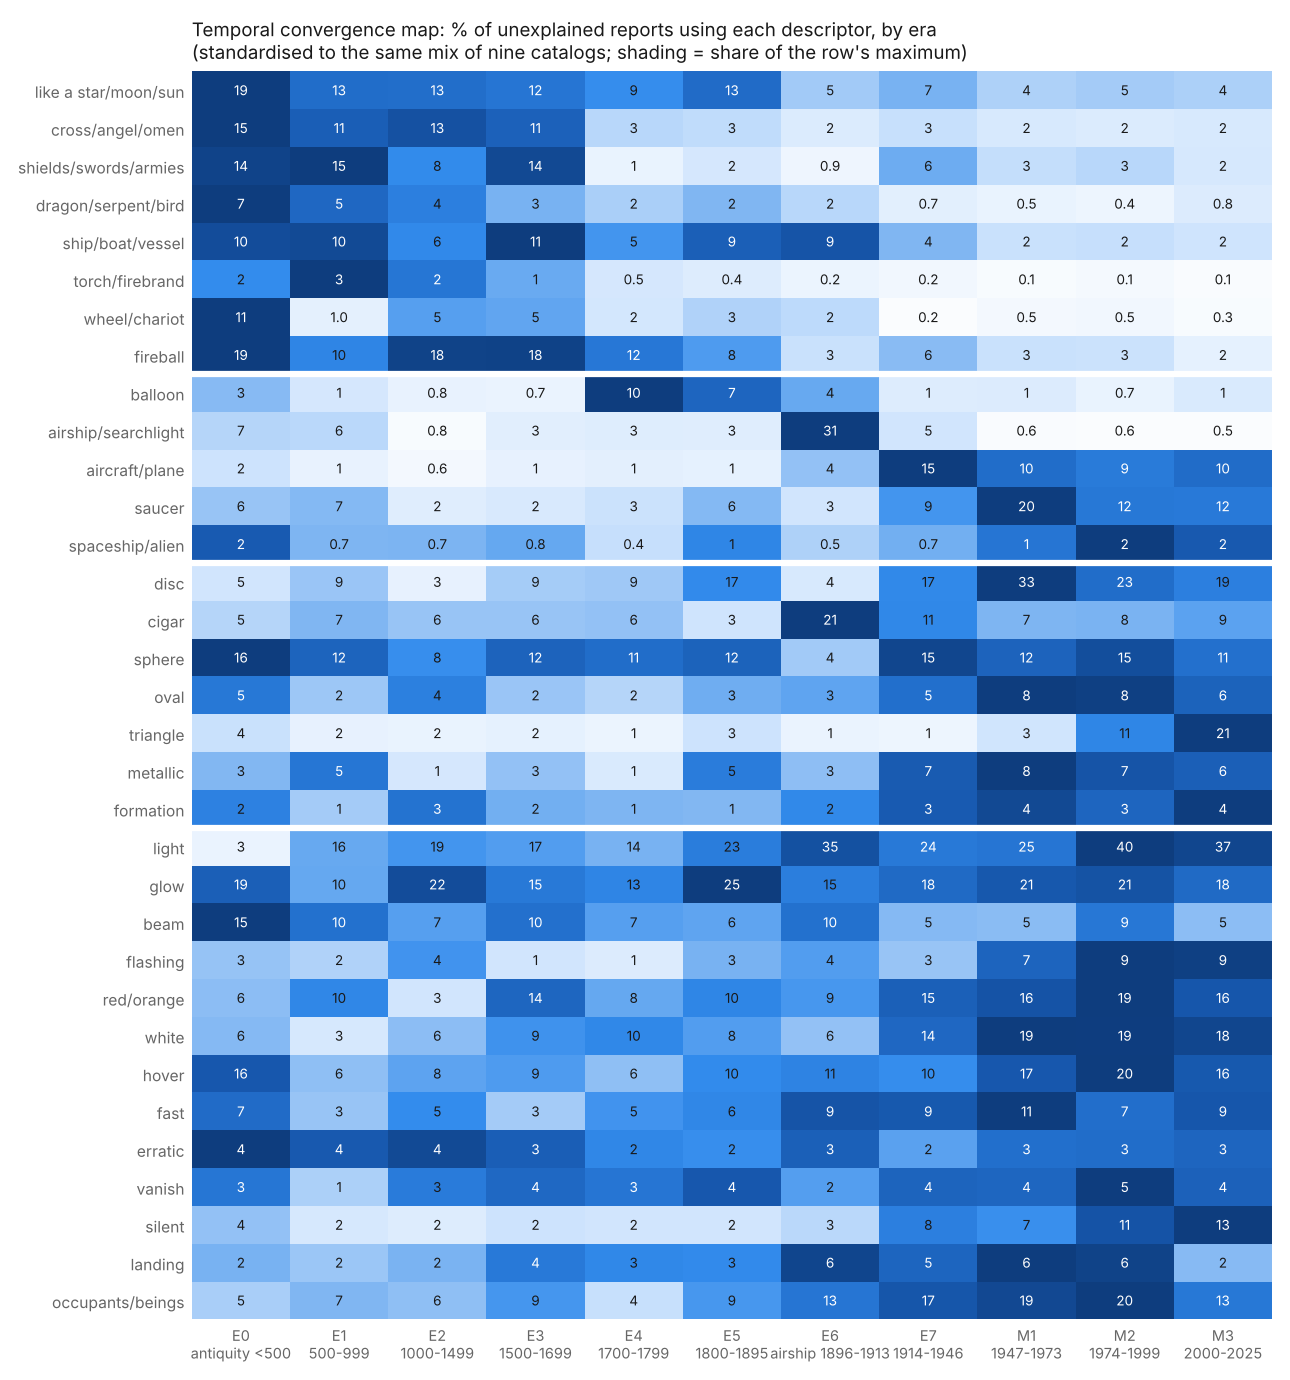
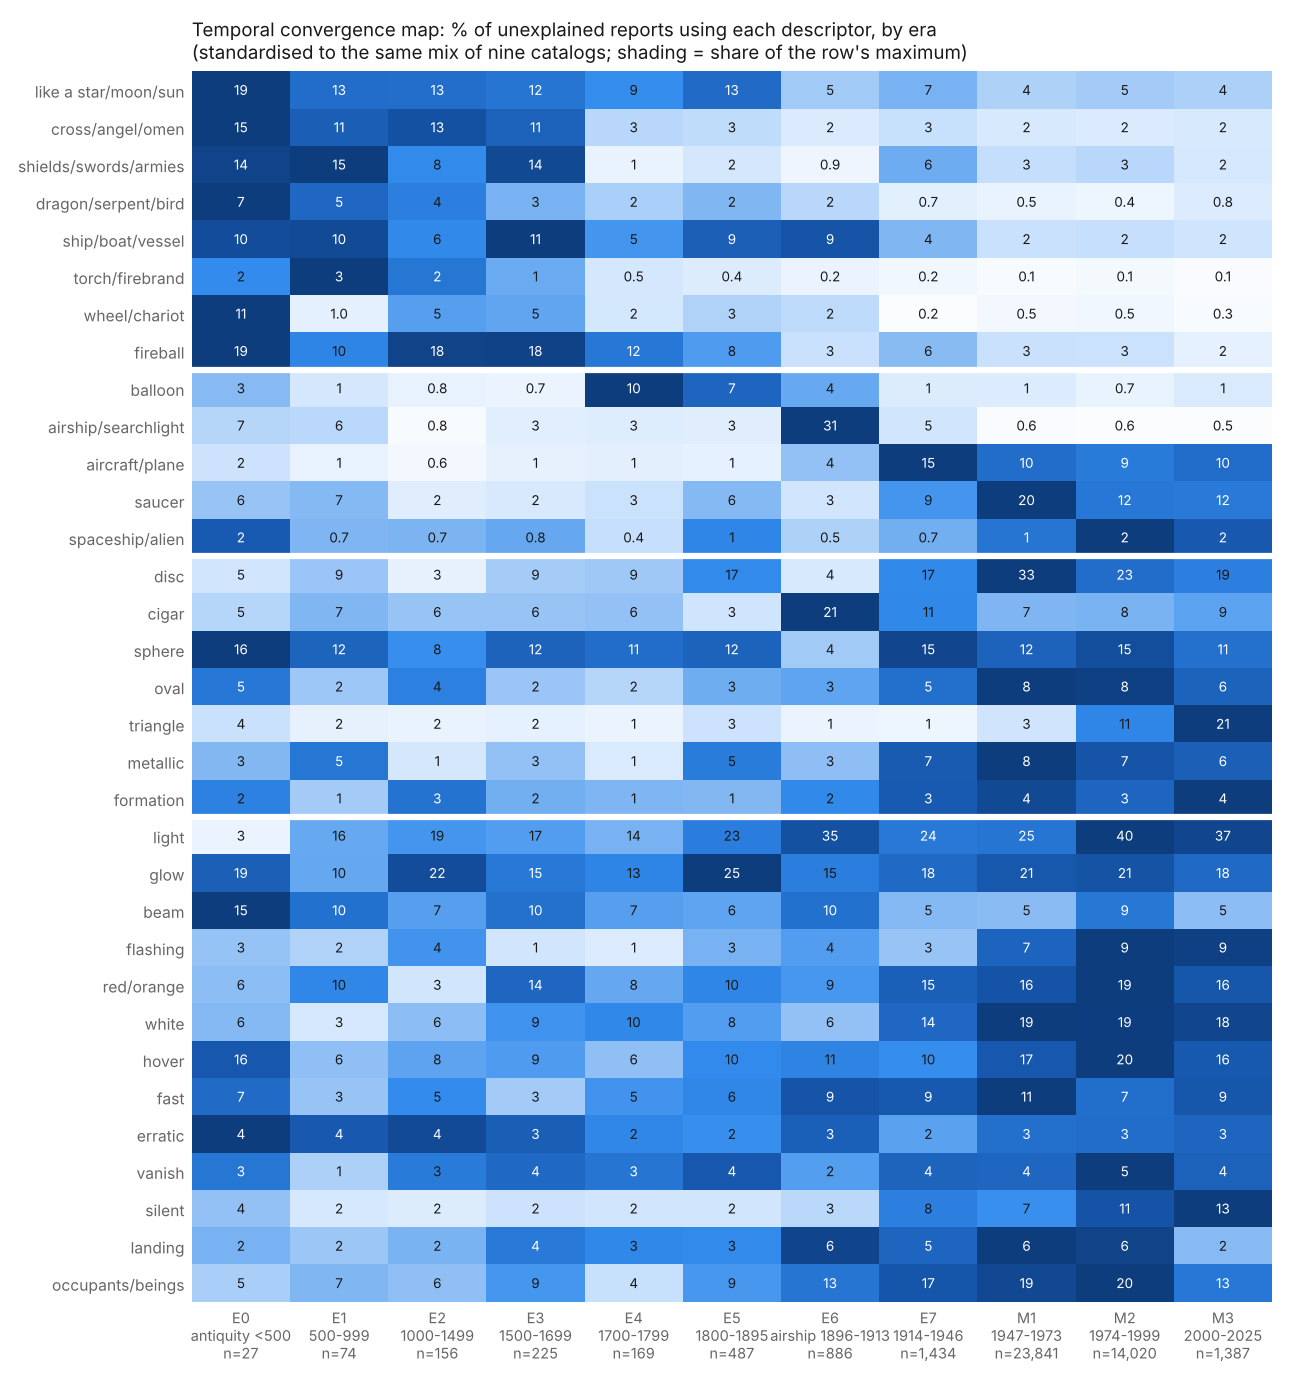
omega/deeptime: figure fixes (drop thin balloon panel, NUFORC-only drone/Starlink, n per era)
Claude-Session: https://claude.ai/code/session_011NzXvtVqgf9EMHsZNktDyy

diff --git a/omega/deeptime/figures.py b/omega/deeptime/figures.py
@@ -33,6 +33,11 @@ def lab(f):
     return LABEL.get(f, f)
 
 
+FEATS, R = load()
+CAT = [r for r in R if r['cat'] in CATALOGS and not r['natural']]
+NUF = [r for r in R if r['cat'] == 'NUFORC_MODERN']
+NERA = collections.Counter(r['era'] for r in CAT)
+
 # 1 ---------------------------------------------------------------- temporal convergence map
 rows = (['f_celestial', 'f_religious', 'f_martial', 'f_creature', 'f_maritime', 'f_torch', 'f_wheel', 'fireball'] +
         ['f_balloon', 'f_airship', 'f_aircraft', 'f_saucer', 'f_space'] +
@@ -50,7 +55,7 @@ for i in range(len(rows)):
         ax.text(j, i, f'{v:.0f}' if v >= 1 else f'{v:.1f}', ha='center', va='center', fontsize=6.5,
                 color='#ffffff' if Mn[i, j] > 0.6 else INK)
 ax.set_xticks(range(len(eras)))
-ax.set_xticklabels([e.replace(' ', '\n', 1) for e in eras], fontsize=7)
+ax.set_xticklabels([e.replace(' ', '\n', 1) + f'\nn={NERA[e]:,}' for e in eras], fontsize=7)
 ax.set_yticks(range(len(rows)))
 ax.set_yticklabels([lab(f) for f in rows], fontsize=7.5)
 for y in (7.5, 12.5, 19.5):
@@ -97,9 +102,7 @@ fig.savefig(os.path.join(FIG, 'deeptime_ancient_vs_modern.png'), dpi=150)
 plt.close(fig)
 
 # 3 ---------------------------------------------------------------- technology words vs the year the technology appeared
-FEATS, R = load()
-CAT = [r for r in R if r['cat'] in CATALOGS and not r['natural']]
-NUF = [r for r in R if r['cat'] == 'NUFORC_MODERN']
+# balloon (1783) is left out: ~100 catalog records before 1783 and the 1780s hits are balloon-ascent context entries.
 
 
 def series(rs, f, y0, y1, step):
@@ -112,26 +115,28 @@ def series(rs, f, y0, y1, step):
     return xs, [1000 * by[x][1] / by[x][0] for x in xs]
 
 
-panels = [('f_balloon', 1700, 1950, 10), ('f_airship', 1800, 1960, 10), ('f_aircraft', 1850, 2010, 10), ('f_saucer', 1900, 2010, 5),
-          ('f_satellite', 1930, 2024, 5), ('f_drone', 1995, 2024, 1), ('f_starlink', 2005, 2024, 1)]
-fig, axs = plt.subplots(len(panels), 1, figsize=(6.4, 1.45 * len(panels) + 0.6))
-for ax, (f, y0, y1, st) in zip(axs, panels):
+panels = [('f_airship', 1800, 1960, 10, 'C'), ('f_aircraft', 1850, 2010, 10, 'C'), ('f_saucer', 1900, 2010, 5, 'C'),
+          ('f_satellite', 1930, 2024, 5, 'CN'), ('f_drone', 2000, 2023, 1, 'N'), ('f_starlink', 2008, 2023, 1, 'N')]
+fig, axs = plt.subplots(len(panels), 1, figsize=(6.4, 1.5 * len(panels) + 0.6))
+for ax, (f, y0, y1, st, which) in zip(axs, panels):
     t0 = tech['A_tech_frames'][f]['t0']
-    x, y = series(CAT, f, y0, y1, st)
-    ax.plot([v + st / 2 for v in x], y, '-', color=BLUE, lw=2, label='compiled catalogs')
-    if y0 >= 1930:
+    if 'C' in which:
+        x, y = series(CAT, f, y0, y1, st)
+        ax.plot([v + st / 2 for v in x], y, '-', color=BLUE, lw=2, label='compiled catalogs')
+    if 'N' in which:
         x2, y2 = series(NUF, f, max(y0, 1950), y1, st)
         ax.plot([v + st / 2 for v in x2], y2, '-', color=ORANGE, lw=2, label='NUFORC witness reports')
     ax.axvline(t0, color=INK, lw=0.9, ls='--')
-    ax.text(t0, ax.get_ylim()[1] * 0.92, f' {t0}', fontsize=7, color=INK, va='top')
+    ax.text(t0, ax.get_ylim()[1] * 0.95, f' {t0}', fontsize=7, color=INK, va='top')
     ax.set_ylabel('per 1,000', fontsize=7)
-    ax.set_title(f'"{lab(f)}": first public appearance {t0} ({tech["A_tech_frames"][f]["event"].split(";")[0].split("(")[0].strip()})',
-                 loc='left', fontsize=8)
+    src = {'C': 'compiled catalogs', 'N': 'NUFORC witness reports', 'CN': 'both'}[which]
+    ax.set_title(f'"{lab(f)}" ({src}): first public appearance {t0}, '
+                 f'{tech["A_tech_frames"][f]["event"].split(";")[0].split("(")[0].split(",")[0].strip()}', loc='left', fontsize=8)
     ax.grid(axis='y', color=GRID, lw=0.6)
-    for s in ('top', 'right'):
-        ax.spines[s].set_visible(False)
-axs[0].legend(loc='upper left', fontsize=7)
-axs[-2].legend(loc='upper left', fontsize=7)
+    for sp in ('top', 'right'):
+        ax.spines[sp].set_visible(False)
+    if which == 'CN':
+        ax.legend(loc='upper left', fontsize=7)
 fig.suptitle('Technology words in UAP reports switch on when the technology appears', x=0.02, ha='left', fontsize=10)
 fig.tight_layout()
 fig.savefig(os.path.join(FIG, 'deeptime_tech_frames.png'), dpi=150)
